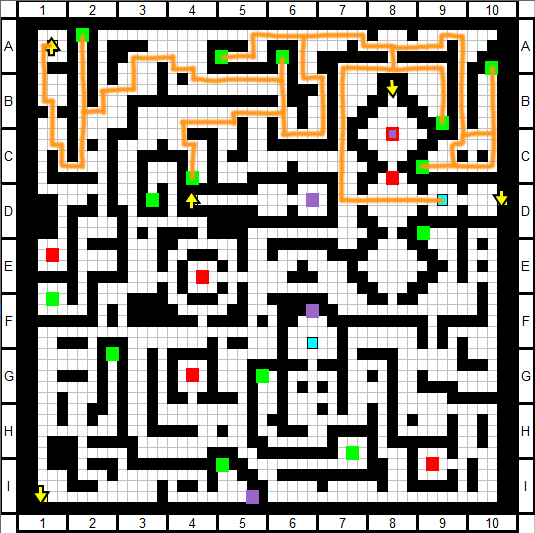
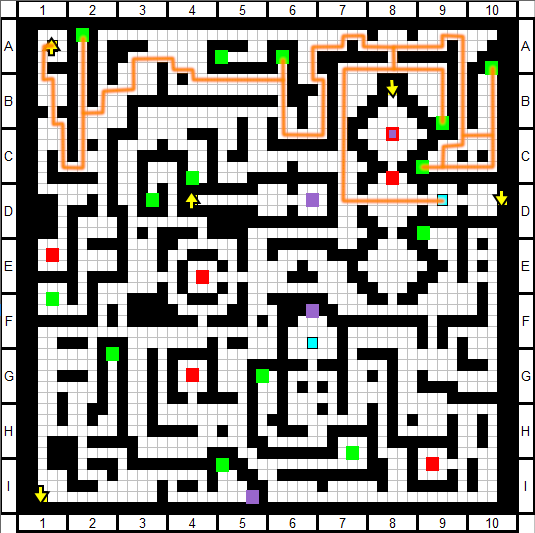
Removed some treasures from 2F and updated menus

Changed region(s): [[0.0598, 0.06, 0.9271, 0.3902]]

diff --git a/routes/ng/murakumo.md b/routes/ng/murakumo.md
@@ -215,7 +215,7 @@
 		* If Marisa gets TRR just spam Magic Missile
 	* Reimu and Rumia can also deal reliable damage
 	* For finer details see Chrysomallos' [Boss Info](../../enemy/chrysomallos.md)
-* Keep going up and take the north treasure in 1F, then exit the dungeon
+* Keep going up and take both treasures in 1F, then exit the dungeon
 
 ## <a id="Header-1-5"></a>Explore 2F (Part 2)
 
@@ -228,7 +228,7 @@
 			* <span class="equip-add"> (3) **DX Mechamonkey Model** (1)</span>
 			* <span class="equip-add"> (if no Exorcism) (2) **Crepe Mariette** (1)</span>
 		* <span class="equip-add"> **Marisa**: </span>
-			* <span class="equip-add"> (3) **Crepe Mariette** (1)</span>
+			* <span class="equip-add"> (2) **Crepe Mariette** (1)</span>
 	* Learn Skills:
 		* <span class="learn-skill"> **Kourin**: Shopkeeper 7 -> 8 </span>
 * Level reference: Reimu 6
@@ -248,7 +248,7 @@
 	* Equipment:
 		* <span class="equip-add"> **Momiji**: </span>
 			* <span class="equip-add"> (M) **Cypress Stick** (1)</span>
-			* <span class="equip-add"> (2) **Sirloin** (3)</span>
+			* <span class="equip-add"> (3) **Sirloin** (3)</span>
 		* <span class="equip-add"> **Kasen**: </span>
 			* <span class="equip-add"> (3) **Bludgeon** (3)</span>
 		* <span class="equip-add"> **Reimu**: </span>
